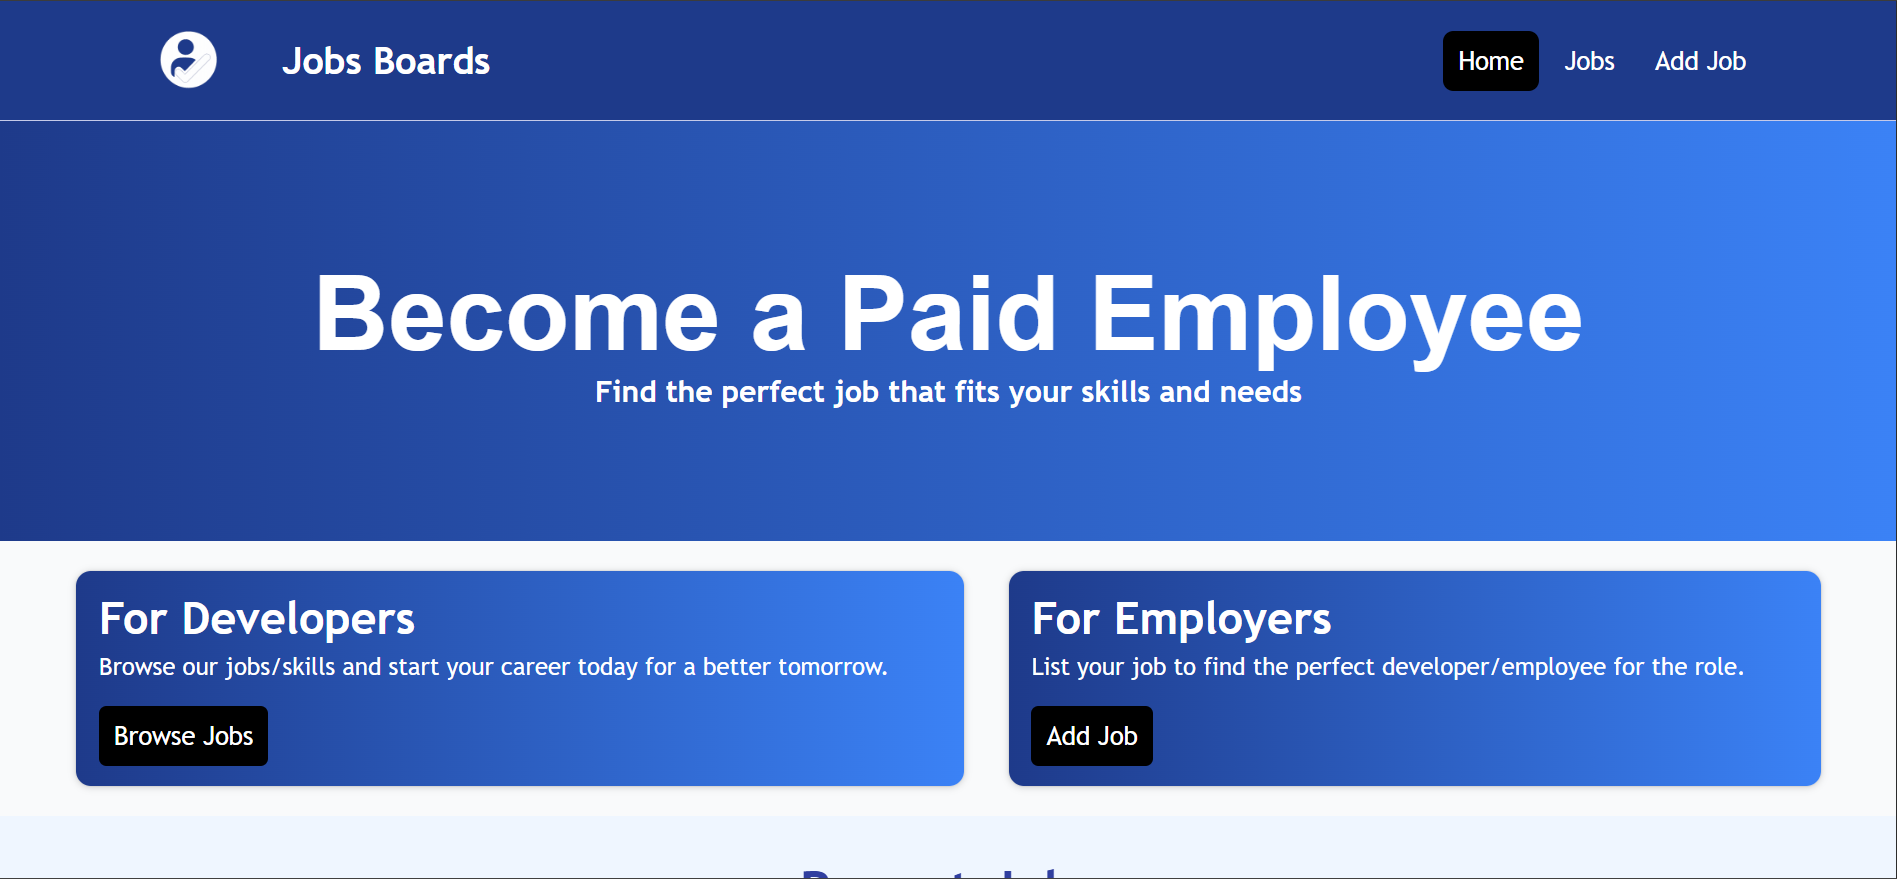
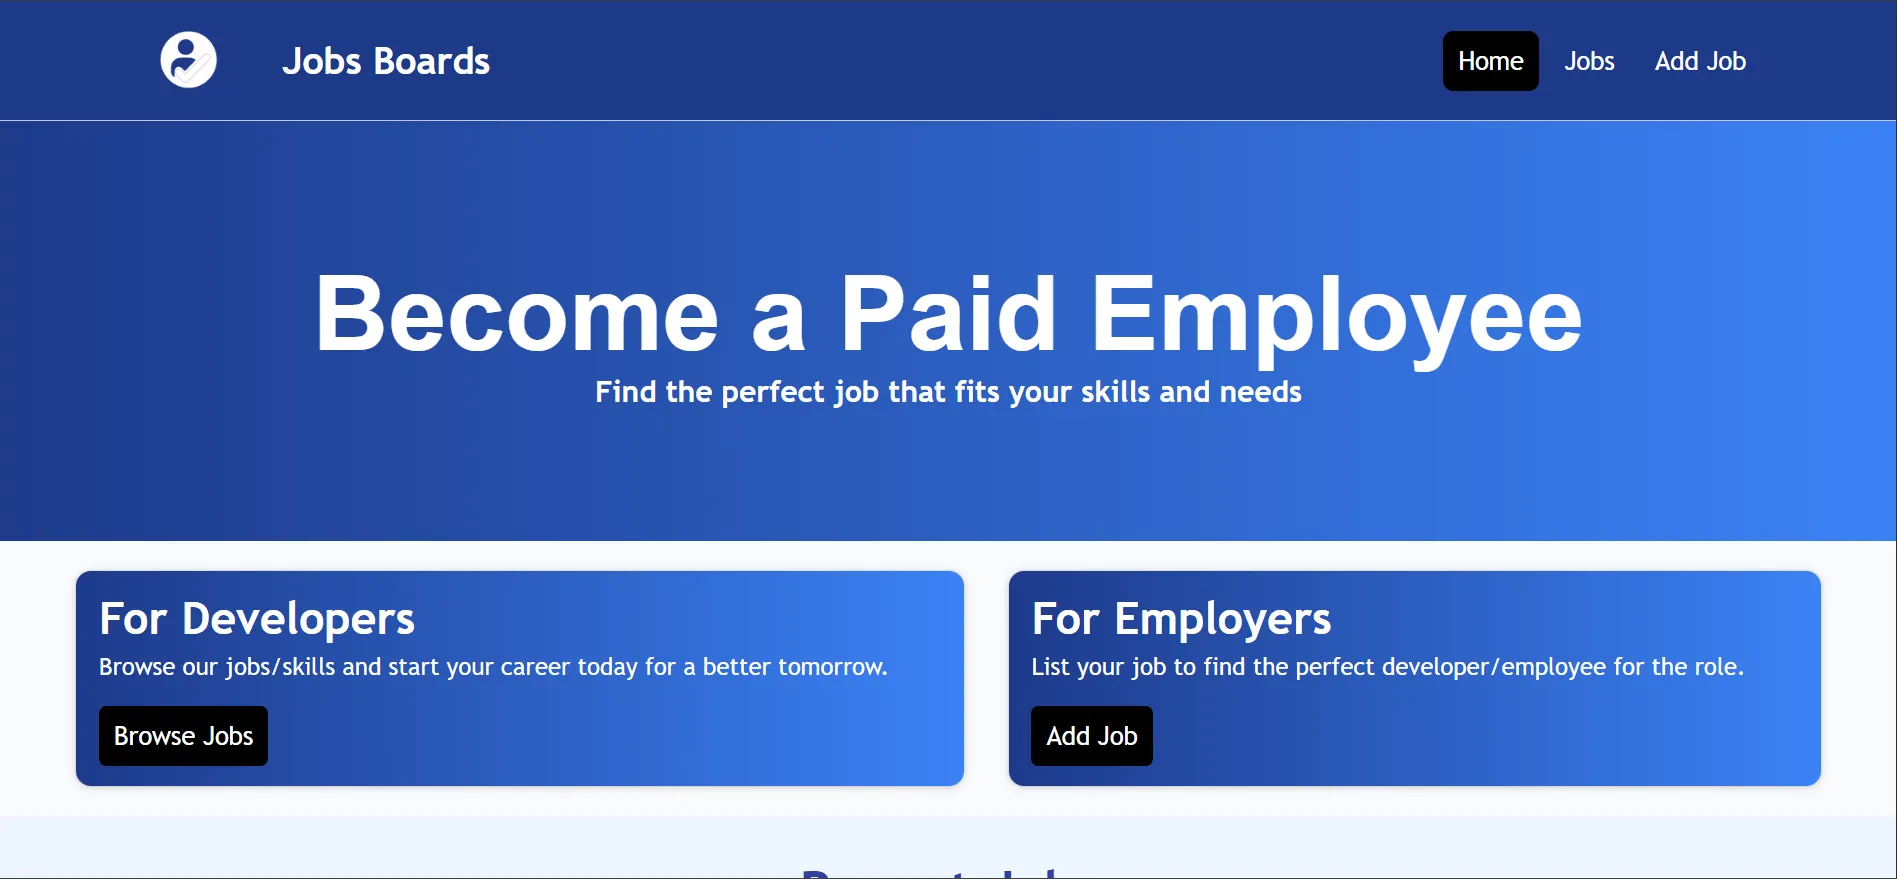
Added recent works

diff --git a/src/components/Works.jsx b/src/components/Works.jsx
@@ -1,5 +1,24 @@
 import React from "react";
 
+const projects = [
+  {
+    image: "/billstation.webp",
+    url: "https://www.thebillstation.com/",
+  },
+  {
+    image: "/fluxa.webp",
+    url: "https://fluxa.bond",
+  },
+  {
+    image: "/jobs-board.webp",
+    url: "https://jobsboards.netlify.app",
+  },
+  {
+    image: "/crypto-tracker.webp",
+    url: "https://crypto-tracke.netlify.app/",
+  },
+];
+
 const Works = () => {
   return (
     <div name="works" className="px-6 lg:pl-12 pt-16">
@@ -10,18 +29,13 @@ const Works = () => {
 
       {/* Projects grid */}
       <div className="grid grid-cols-1 sm:grid-cols-2 gap-6">
-        {[
-          "/billstation.png",
-          "/digital-bank.png",
-          "/jobs-board.png",
-          "/crypto-tracker.png",
-        ].map((img, index) => (
+        {projects.map((project, index) => (
           <div
             key={index}
             className="relative group overflow-hidden rounded-lg shadow-lg"
           >
             <img
-              src={img}
+              src={project.image}
               alt="Project preview"
               className="
                 w-full h-full object-cover
@@ -32,7 +46,9 @@ const Works = () => {
             />
 
             <a
-              href="#"
+              href={project.url}
+              target="_blank"
+              rel="noopener noreferrer"
               className="
                 absolute bottom-4 left-1/2 -translate-x-1/2
                 bg-black/70 text-sm sm:text-base px-5 py-2
